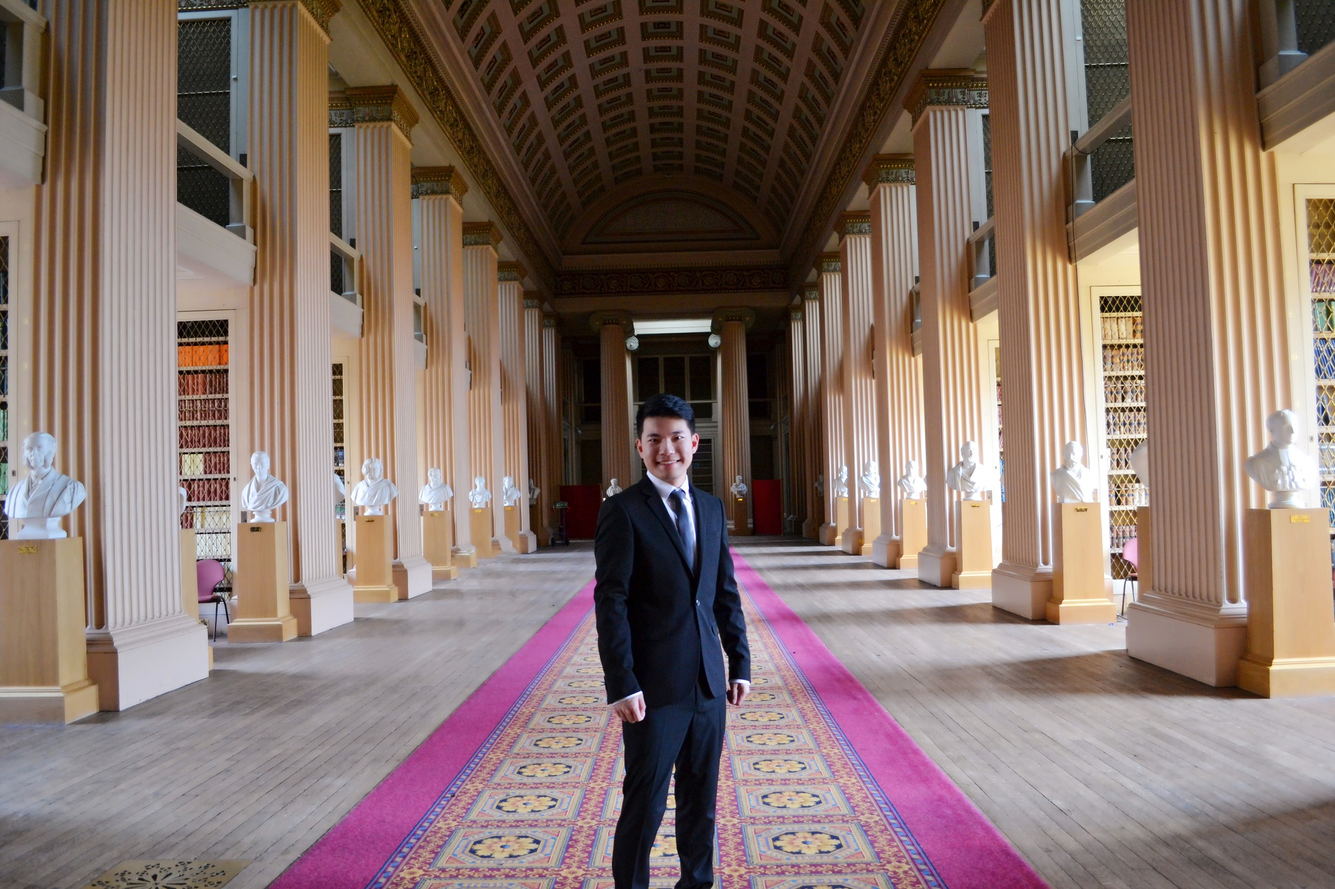
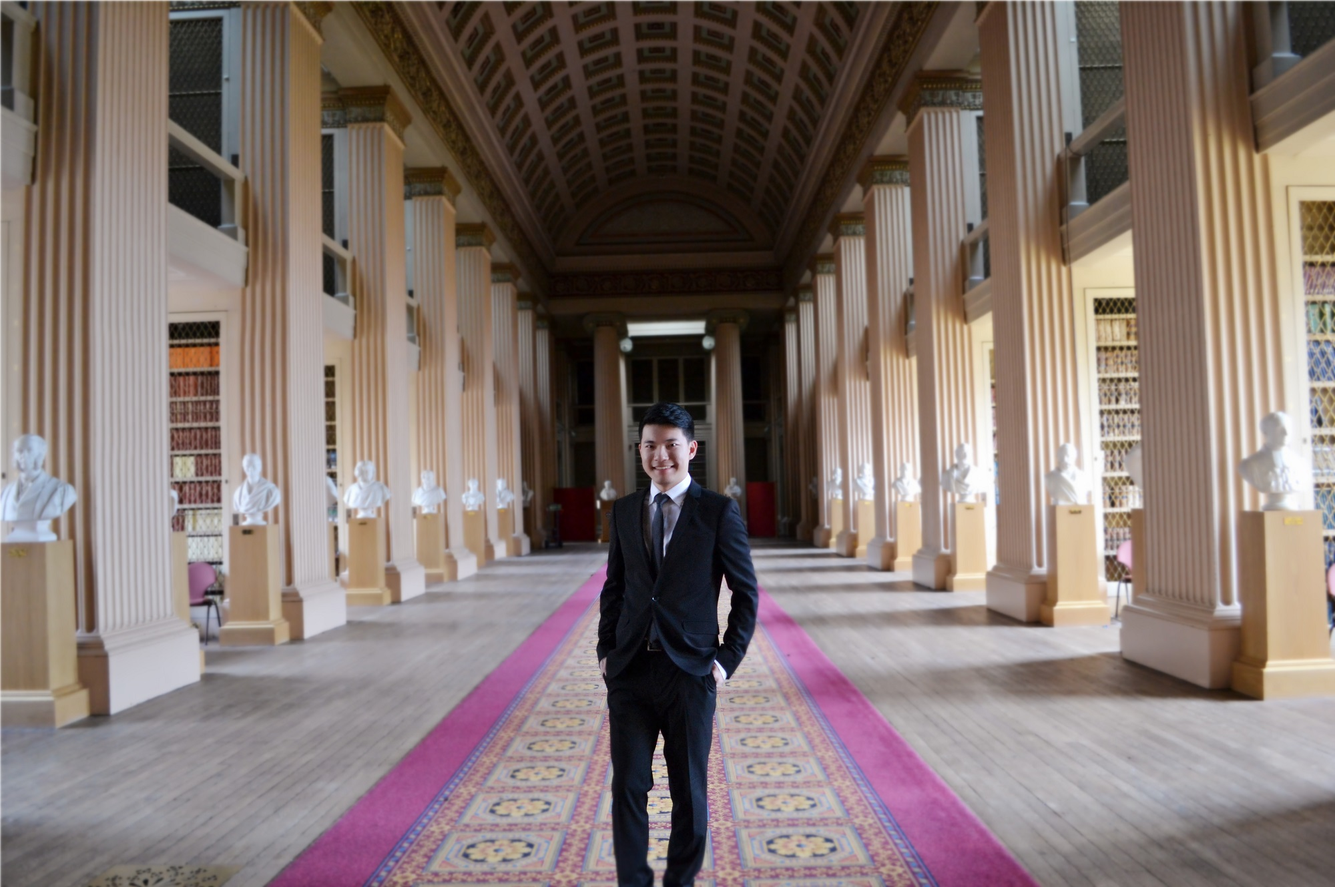
no message

diff --git a/index.html b/index.html
@@ -86,7 +86,7 @@
       </div>
 
       <div class="item">
-        <div class="fill" style="background-image: url('./images/oldcollege.jpg');" title ="Photo taken by Sam Nicaudie of Finn Zhan Chen at Arthur´s Seat"></div>
+        <div class="fill" style="background-image: url('./images/sdg1.jpg');" title ="Photo taken by World Merit of Finn Zhan Chen´s Group"></div>
         <div class="carousel-caption" >
           <h2>Nothing is more exciting than working in a diverse team.</h2>
           <p></p>
